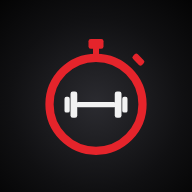
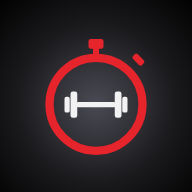
Pulsiranje u zadnjih 10 s, mekša i dulja izlazna animacija, izraženiji gradijent ikone
Claude-Session: https://claude.ai/code/session_01TGNU2rgc3TEfJSsaokVbJH

Changed region(s): [[0.3125, 0.3438, 0.6875, 0.7188]]

diff --git a/style.css b/style.css
@@ -8,6 +8,7 @@
   --accent: #e5242b;
   --accent-dim: #7d1519;
   --ease: cubic-bezier(.2, .8, .2, 1);
+  --ease-smooth: cubic-bezier(.45, 0, .2, 1);
 }
 
 * { box-sizing: border-box; -webkit-tap-highlight-color: transparent; }
@@ -118,12 +119,33 @@ button { font: inherit; color: inherit; touch-action: manipulation; }
   align-items: center;
   justify-content: center;
   gap: 18px;
-  transition: opacity .35s var(--ease), transform .35s var(--ease);
+  /* izlaz: dulji i mekši prijelaz */
+  transition:
+    opacity 1s var(--ease-smooth),
+    transform 1s var(--ease-smooth),
+    filter 1s var(--ease-smooth);
 }
-.rest-select { opacity: 1; transform: none; }
-.rest-run { opacity: 0; transform: scale(.9); pointer-events: none; }
-.rest.is-running .rest-select { opacity: 0; transform: scale(1.06); pointer-events: none; }
-.rest.is-running .rest-run { opacity: 1; transform: none; pointer-events: auto; }
+.rest-select { opacity: 1; transform: none; filter: none; transition-delay: .3s; }
+.rest-run { opacity: 0; transform: scale(.9); filter: blur(6px); pointer-events: none; }
+.rest.is-running .rest-select {
+  opacity: 0;
+  transform: scale(1.06);
+  filter: blur(6px);
+  pointer-events: none;
+  transition-duration: .35s;
+  transition-delay: 0s;
+  transition-timing-function: var(--ease);
+}
+.rest.is-running .rest-run {
+  opacity: 1;
+  transform: none;
+  filter: none;
+  pointer-events: auto;
+  transition-duration: .35s;
+  transition-timing-function: var(--ease);
+}
+/* na kraju odbrojavanja brojčanik se lagano povlači i blijedi */
+.rest:not(.is-running) .rest-run { transform: scale(.94); }
 
 .preset-grid {
   display: grid;

diff --git a/app.js b/app.js
@@ -3,8 +3,9 @@
 
   const STORAGE_KEY = 'gymtimer.v1';
   const FIXED_PRESETS = [90, 120, 180];
-  const WARNING_SECONDS = 5;
+  const WARNING_SECONDS = 10;
   const END_HOLD_MS = 1200;
+  const REST_EXIT_MS = 1300;
   const WHEEL_ITEM_H = 52;
   const MAX_MINUTES = 20;
   const SECOND_STEP = 5;
@@ -82,6 +83,7 @@
   }
 
   // ---------- Wake Lock (ekran ostaje upaljen) ----------
+  let warningTimer = 0;
   let wakeLock = null;
 
   function wantsAwake() {
@@ -224,7 +226,13 @@
     el.restSelect.toggleAttribute('inert', running);
     el.restRun.toggleAttribute('inert', !running);
     el.restRun.setAttribute('aria-hidden', String(!running));
-    if (!running) el.rest.classList.remove('is-warning');
+    clearTimeout(warningTimer);
+    if (!running) {
+      // pulsiranje se gasi tek kad završi izlazna animacija
+      warningTimer = setTimeout(() => {
+        if (!state.rest) el.rest.classList.remove('is-warning');
+      }, REST_EXIT_MS);
+    }
   }
 
   function tick() {
@@ -234,6 +242,8 @@
     if (state.rest) {
       const left = state.rest.endAt - now;
       if (left <= 0) {
+        el.restTime.textContent = fmtShort(0);
+        el.ringProgress.style.strokeDashoffset = String(RING_LENGTH);
         stopRest();
         return;
       }

diff --git a/sw.js b/sw.js
@@ -1,4 +1,4 @@
-const CACHE = 'gym-timer-v2';
+const CACHE = 'gym-timer-v3';
 const ASSETS = [
   './',
   'index.html',
